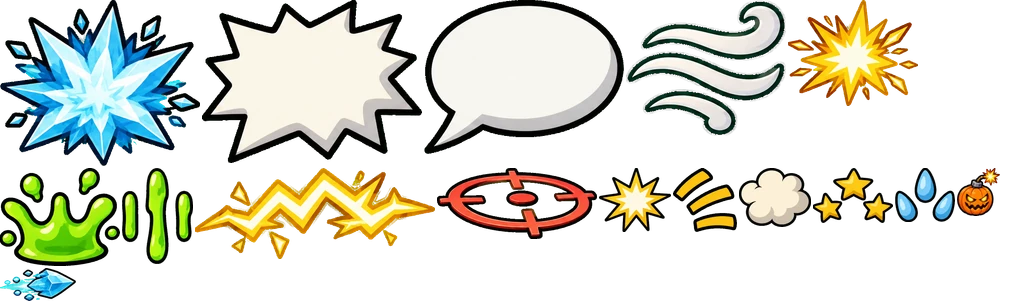
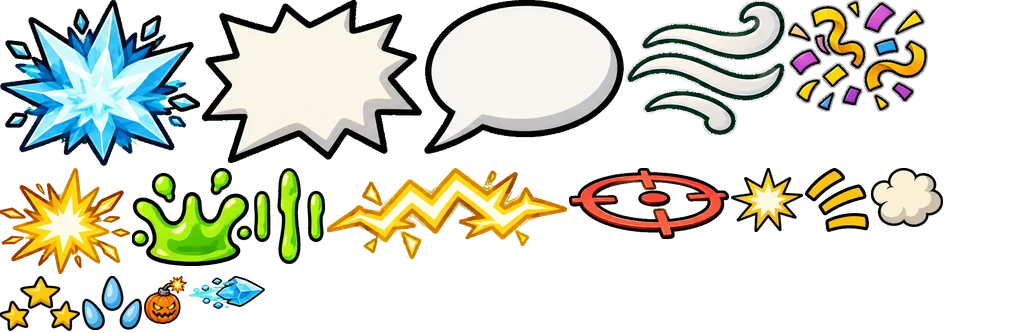
arte: dejo en el build los logros y el confeti que usa el codigo nuevo; actualizo los numeros de la auditoria

diff --git a/docs/AUDITORIA.md b/docs/AUDITORIA.md
@@ -1,6 +1,8 @@
 # Auditoría final
 
-Hice la auditoría sobre una copia limpia del repositorio en el commit `a898bea`, para que el trabajo de otras sesiones no mezclara los resultados. La regla fue que el comportamiento del juego no cambiara. La prueba de eso es `scripts/semillas.sim.ts`: juega 300 partidas entre bots expertos con las semillas 1 a 300 y guarda el resultado exacto de cada una (mapa, ganador, rondas, turnos, disparos, aciertos y daño). Corrí la simulación antes de tocar nada y después de cada cambio relevante. El archivo final es idéntico byte por byte al de la línea base (`docs/auditoria/semillas-base.json` contra `docs/auditoria/semillas-final.json`).
+Hice la auditoría sobre una copia limpia del repositorio en el commit `a898bea`, para que el trabajo de otras sesiones no mezclara los resultados. La regla fue que el comportamiento del juego no cambiara. La prueba de eso es `scripts/semillas.sim.ts`: juega 300 partidas entre bots expertos con las semillas 1 a 300 y guarda el resultado exacto de cada una (mapa, ganador, rondas, turnos, disparos, aciertos y daño). Corrí la simulación antes de tocar nada y después de cada cambio relevante. El archivo final es idéntico byte por byte al de la línea base (`semillas-base-a898bea.json` contra `semillas-final-a898bea.json` en `docs/auditoria/`).
+
+Mientras trabajaba, la otra sesión publicó cuatro commits nuevos (cuerpos sólidos, logros, portales y multiplicador de daño) que sí cambian el juego. Los fusioné, volví a pasar mis limpiezas sobre el código nuevo y repetí la comprobación contra el estado de ese momento (`eaf3d47`): `semillas-base-eaf3d47.json` y `semillas-final-eaf3d47.json` también son idénticos. El bundle y las pruebas del cuadro incluyen esos commits, por eso el JS no baja.
 
 ## Línea base y resultado
 
@@ -17,11 +19,11 @@ Hice la auditoría sobre una copia limpia del repositorio en el commit `a898bea`
 | `docs` | 277 archivos (253 capturas) | 271 archivos (20 capturas más 10 del informe) |
 | Peso de `docs/` | 172 MB | 22 MB |
 | Peso de `public/` | 7.3 MB | 6.4 MB |
-| Bundle JS | 1343.89 kB (372.20 kB gzip) | 1339.55 kB (370.50 kB gzip) |
-| `dist/` | 9.0 MB | 8.0 MB |
+| Bundle JS | 1343.89 kB (372.20 kB gzip) | 1350.71 kB (374.52 kB gzip) |
+| `dist/` | 9.0 MB | 8.2 MB |
 | `tsc --noEmit` y ESLint sin advertencias | sin errores | sin errores, también con `--noUnusedLocals --noUnusedParameters` |
-| Pruebas | 543 | 531 |
-| Cobertura de `src/core` (sentencias, ramas, funciones, líneas) | 96.17, 90.3, 97.09, 97.67 | 96.18, 90.3, 97.09, 97.69 |
+| Pruebas | 543 | 565 (la otra sesión agregó pruebas durante la auditoría) |
+| Cobertura de `src/core` (sentencias, ramas, funciones, líneas) | 96.17, 90.3, 97.09, 97.67 | 96.81, 90.48, 97.74, 98.21 |
 | Simulación de 300 semillas | referencia | idéntica |
 
 Las líneas de `src/` subieron aunque quité código porque los comentarios en español, aunque más cortos en número, ocupan varias líneas cuando explican el porqué, y agregué lo que faltaba: la pantalla de error de carga y los campos de la simulación. Las 12 pruebas que bajaron salen de reemplazar dos archivos de pruebas de atlas por uno solo (`tests/atlas.test.ts`) que además comprueba que todo frame que nombra el código existe.
@@ -32,7 +34,7 @@ Capturas de las pantallas clave antes (`docs/auditoria/base/`) y después (`docs
 
 - 36 exportaciones y constantes sin uso en `src/` que detectó `knip` (se les quitó `export`) y 2 declaraciones que no usaba nadie. La última pasada completa de `knip` no dejó exportaciones sin uso en `src/` (la repetición final falló por falta de memoria del equipo, no por el código). Quedan 8 archivos que `knip` marca como sin uso: siete son herramientas que se corren a mano (`scripts/chart-balance.mjs`, `preview-*.mjs`, `rig-*.mjs`) y `public/sw.js`, que se registra por nombre desde `src/main.ts`. Los dejé a propósito.
 - `depcheck` y `npm run` no encuentran dependencias ni scripts sin uso.
-- 96 frames de arte que ninguna mecánica usa: íconos de armas que no existen, insignias de estado y de evento, efectos de armas no implementadas, logros, cajas trampa, cofre, sombreros, parches, lápidas y los 18 obstáculos de mapa. Salieron del build y quedaron en `docs/FUTURO.md` con su id y su uso previsto. El pipeline sigue sabiendo generarlos: se quita el nombre del conjunto `FUTURO` de `scripts/sheets.mjs`. También se fueron `atlas-objects`, `cosmeticRig.json` y el campo `plannedIcons` de `weapons.json`.
+- 87 frames de arte que ninguna mecánica usa: íconos de armas que no existen, insignias de estado y de evento, efectos de armas no implementadas, el logro bloqueado, cajas trampa, cofre, sombreros, parches, lápidas y los 18 obstáculos de mapa. Salieron del build y quedaron en `docs/FUTURO.md` con su id y su uso previsto. El pipeline sigue sabiendo generarlos: se quita el nombre del conjunto `FUTURO` de `scripts/sheets.mjs`. También se fueron `atlas-objects`, `cosmeticRig.json` y el campo `plannedIcons` de `weapons.json`.
 - 5 frames viejos del atlas principal (`wicon_grenade`, `wicon_mace`, `wicon_ice`, `fx_smoke`, `item_crate`) y los dos íconos de marcador hechos con SVG.
 - Siete documentos de proceso que ya no servían (traspaso inicial, coordinación entre sesiones, listas de arte pendiente, bitácoras de mejoras) y unas 230 capturas repetidas o de pruebas de antes y después.
 - Las herramientas `?debug=rig`, `?debug=assets` y `?debug=acid` ya no entran al bundle de producción. `?debug=fps` se queda.
@@ -56,6 +58,7 @@ Capturas de las pantallas clave antes (`docs/auditoria/base/`) y después (`docs
 
 - Estrés: 1000 partidas entre bots con semillas al azar (`scripts/estres.sim.ts`), revisando en cada paso que no haya valores no finitos, que las criaturas vivas estén dentro del mapa y que ninguna partida se quede atascada. Resultado: 0 problemas. Promedio de 10.2 rondas, 19.6 turnos y unos 95 s de juego de bots por partida; 4 empates en mil (`docs/auditoria/estres.json`).
 - Navegador (`npm run e2e`, 62 pruebas): 47 pasan y 15 se omiten por diseño. Corren en PC (1600x900), móvil (844x390) y en WebKit con los perfiles de iPhone y iPad. `e2e/pantallas.spec.ts` recorre menú, laboratorio, pasa el dispositivo, combate y resumen en los cuatro y exige cero errores de consola. El único mensaje que filtra es el aviso de Safari de que no reconoce `interactive-widget` en la etiqueta viewport, que es de Chrome y no afecta nada.
+- La matriz completa se corrió antes de fusionar con los commits nuevos de la otra sesión. Después de fusionar repetí el recorrido de pantallas en los cuatro perfiles (pasa) pero no toda la matriz.
 - Casos de borde que ya manejaba el código y comprobé en la revisión: `localStorage` bloqueado (`settings.ts`, `rewards.ts`, con prueba), audio bloqueado hasta el primer toque (`audio.ts`, `viewport.ts`), WebGL perdido (`viewport.ts` restaura o recarga), cambio de orientación (aviso en móvil vertical, `e2e/game.spec.ts`), pestaña en segundo plano (el combate se pausa solo) y Atrás en cada pantalla (`e2e/atras.spec.ts`). WebGL no disponible lo cubre `Phaser.AUTO`, que cae a canvas.
 - Rendimiento con `?debug=fps`: el equipo donde corrí las pruebas solo tiene WebGL por software (SwiftShader), así que la medición de la tormenta ácida (3 a 7 fps) no representa un celular real. No tengo una medición válida de 60 fps. Queda pendiente medirla en el teléfono del equipo con `?debug=fps` en las pantallas con más efectos (ácido, viento y explosiones).
 

diff --git a/docs/CUMPLIMIENTO.md b/docs/CUMPLIMIENTO.md
@@ -37,7 +37,7 @@ Con 1000 partidas entre bots con semillas al azar (`scripts/estres.sim.ts`): 10.
 | Skills | `docs/ia/skills/nueva-parte.md`, `docs/ia/skills/crear-test-tdd.md` | cumple | Las skills reales viven en la configuración local del asistente y se copian a `docs/ia/skills/`. |
 | AGENTS.md | `AGENTS.md` | cumple | Actualicé las referencias a documentos que ya no existen. |
 | Refinamiento iterativo | `PROMPTS.md`, iteraciones 1 a 10 con prompt, resultado y ajuste | cumple | Agregué la iteración 10, la de esta auditoría. |
-| Pruebas unitarias | `tests/`, 531 pruebas con Vitest y cobertura de `src/core` | cumple | Cambié los títulos a español y quité una prueba duplicada. |
+| Pruebas unitarias | `tests/`, 565 pruebas con Vitest y cobertura de `src/core` | cumple | Cambié los títulos a español y quité una prueba duplicada. |
 | Metodología de desarrollo (TDD, knowledge priming o diseño primero) | TDD en `tests/` y `docs/diagramas/ciclo-tdd.png`. Diseño primero en `design-prototype/` y `docs/DECISIONES_JUEGO.md`. Contexto fijo en `AGENTS.md` | cumple | Documenté el ciclo con un diagrama. |
 | Al menos un agente personalizado | Agente de balance, `docs/ia/skills/agente-balance.md` | cumple | El agente solo lee los JSON y propone cambios, no los aplica. |
 | El uso de los conceptos siempre es justificable | `docs/GUIA_DE_CODIGO.md`, tabla de conceptos | cumple | Cada concepto se liga a un archivo concreto. |

diff --git a/docs/FUTURO.md b/docs/FUTURO.md
@@ -36,7 +36,7 @@ Estos frames existen como hojas en `assets/raw` y están definidos en `scripts/s
 | crate-utility, crate-weapon | cajas actuales con arte propio (hoy se usa item_mystery) |
 | crate-mimic-closed, crate-mimic-open | caja trampa |
 | fx-parachute, fx-signal-flare | caída de cajas con paracaídas y bengala |
-| chest-closed, chest-open, fx-confetti | cofre de remiendos al final de la partida |
+| chest-closed, chest-open | cofre de remiendos al final de la partida |
 | hat-top, hat-party, hat-crown, hat-propeller | sombreros de la colección |
 | patch-star, patch-skull | parches de la colección |
 | grave-tombstone, grave-tombstone-broken | lápida cuando una criatura cae |
@@ -53,7 +53,7 @@ Para los sombreros hay decisiones tomadas que conviene respetar al conectarlos. 
 | ui-trophy, ui-star | pantalla de resumen |
 | ui-lock | elementos de la colección sin desbloquear |
 | ui-check, ui-close | botones de los modales de confirmación |
-| ach-acid-ko, ach-arsenal, ach-collector, ach-comeback, ach-first-blood, ach-flawless, ach-locked, ach-survivor, ach-three-wins | pantalla de logros |
+| ach-locked | logro bloqueado en la pantalla de logros |
 
 ## Obstáculos de mapa
 

diff --git a/docs/GUION_PRESENTACION.md b/docs/GUION_PRESENTACION.md
@@ -20,7 +20,7 @@ Disparar al terreno para abrir un cráter y mostrar cómo cambia por dónde se p
 
 ## 5. Las pruebas (1 minuto)
 
-Correr `npm test` y mostrar que son 531 pruebas del núcleo y de los modelos. Mostrar una prueba escrita antes que el código (`tests/damage.test.ts`) y el simulador con bots que usamos para medir el balance (`docs/balance/BALANCE_RESUMEN.md`). Contar que la auditoría final comprobó que 300 partidas con semillas fijas dan el mismo resultado antes y después de limpiar el código.
+Correr `npm test` y mostrar que son 565 pruebas del núcleo y de los modelos. Mostrar una prueba escrita antes que el código (`tests/damage.test.ts`) y el simulador con bots que usamos para medir el balance (`docs/balance/BALANCE_RESUMEN.md`). Contar que la auditoría final comprobó que 300 partidas con semillas fijas dan el mismo resultado antes y después de limpiar el código.
 
 ## 6. El uso de IA (1 minuto)
 

diff --git a/docs/GUIA_DE_CODIGO.md b/docs/GUIA_DE_CODIGO.md
@@ -83,7 +83,7 @@ El diagrama está en `docs/diagramas/datos-piezas.png`. `parts.json` define cada
 |---|---|
 | Diseño primero y datos en JSON | `design-prototype/`, `src/data/`, `docs/DECISIONES_JUEGO.md` |
 | TDD | `tests/` junto a `src/core/`, ciclo en `docs/diagramas/ciclo-tdd.png` |
-| Pruebas unitarias | `npm test`, 531 pruebas de Vitest |
+| Pruebas unitarias | `npm test`, 565 pruebas de Vitest |
 | Pruebas de navegador | `e2e/`, con Playwright en PC, móvil y Safari |
 | Simulación para balancear | `src/core/bot.ts`, `src/core/sim.ts`, `docs/balance/` |
 | AGENTS.md | `AGENTS.md` |
